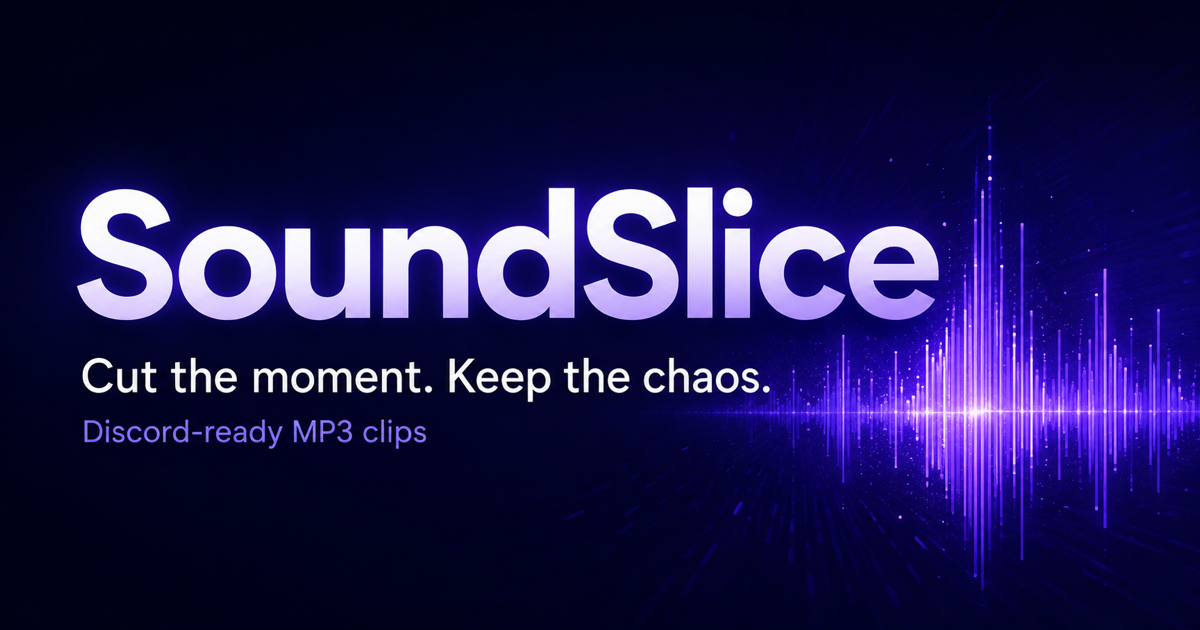
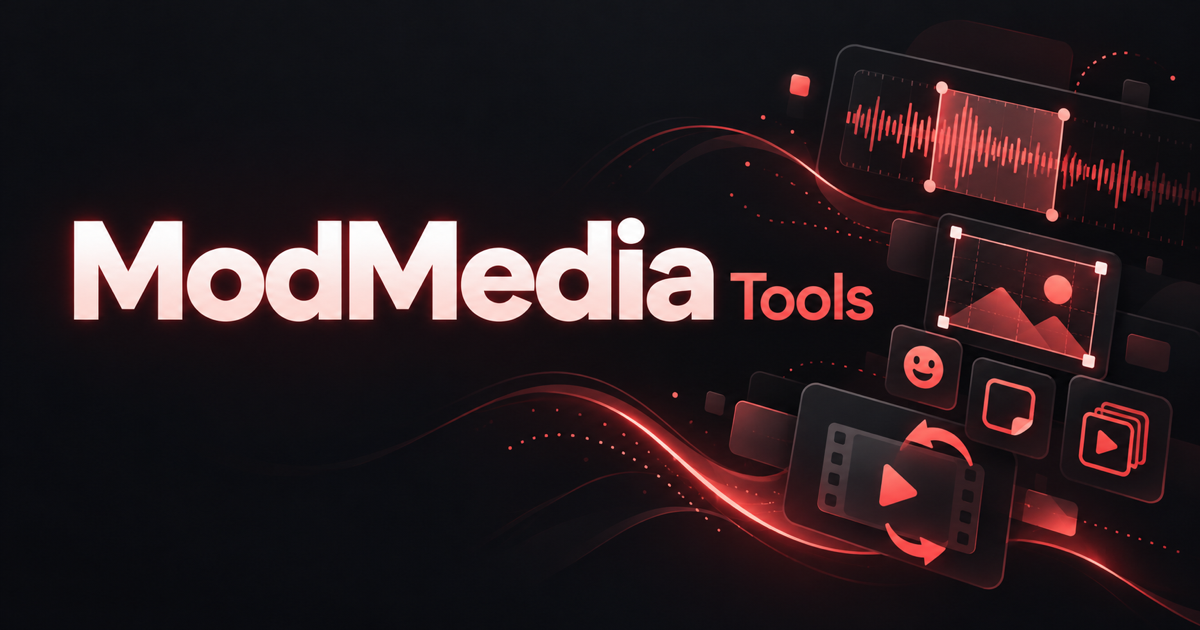
Rebrand app as ModMedia Tools
Update product branding, metadata, documentation, favicon, and social artwork. Make slider thumbs accessible to assistive technology and keyboard users.

diff --git a/app/layout.tsx b/app/layout.tsx
@@ -14,16 +14,20 @@ const geistMono = Geist_Mono({
 
 export const metadata: Metadata = {
   metadataBase: new URL(process.env.NEXT_PUBLIC_SITE_URL ?? 'https://soundslice-discord.warm-okapi-4710.chatgpt.site'),
-  title: 'SoundSlice — Discord Media Tools',
+  title: 'ModMedia Tools — Discord Media Tools',
   description: 'Format soundboard clips, stickers, and other Discord-ready media directly in your browser.',
+  icons: {
+    icon: [{ url: '/favicon.svg', type: 'image/svg+xml' }],
+    shortcut: '/favicon.svg',
+  },
   openGraph: {
-    title: 'SoundSlice — Discord Media Tools',
+    title: 'ModMedia Tools — Discord Media Tools',
     description: 'Create Discord-ready soundboard clips, stickers, and more directly in your browser.',
-    images: [{ url: '/og.png', width: 1200, height: 630, alt: 'SoundSlice audio waveform' }],
+    images: [{ url: '/og.png', width: 1200, height: 630, alt: 'ModMedia Tools media editing preview' }],
   },
   twitter: {
     card: 'summary_large_image',
-    title: 'SoundSlice — Discord Media Tools',
+    title: 'ModMedia Tools — Discord Media Tools',
     description: 'Create Discord-ready soundboard clips, stickers, and more directly in your browser.',
     images: ['/og.png'],
   },

diff --git a/components/ui/slider.tsx b/components/ui/slider.tsx
@@ -8,6 +8,8 @@ function Slider({
   value,
   min = 0,
   max = 100,
+  'aria-label': ariaLabel,
+  'aria-labelledby': ariaLabelledBy,
   ...props
 }: SliderPrimitive.Root.Props) {
   const _values = Array.isArray(value)
@@ -25,6 +27,8 @@ function Slider({
       min={min}
       max={max}
       thumbAlignment="edge"
+      aria-label={ariaLabel}
+      aria-labelledby={ariaLabelledBy}
       {...props}
     >
       <SliderPrimitive.Control className="data-vertical:min-h-40 relative flex w-full touch-none items-center select-none data-disabled:opacity-50 data-vertical:h-full data-vertical:w-auto data-vertical:flex-col">
@@ -41,6 +45,8 @@ function Slider({
           <SliderPrimitive.Thumb
             data-slot="slider-thumb"
             key={index}
+            aria-label={ariaLabel}
+            aria-labelledby={ariaLabelledBy}
             className="border-ring ring-ring/50 relative size-3 rounded-full border bg-white transition-[color,box-shadow] after:absolute after:-inset-2 hover:ring-3 focus-visible:ring-3 focus-visible:outline-hidden active:ring-3 block shrink-0 select-none disabled:pointer-events-none disabled:opacity-50"
           />
         ))}

diff --git a/app/page.tsx b/app/page.tsx
@@ -5,7 +5,7 @@ export default function Home() {
   return (
     <main className="arcade-app">
       <header className="arcade-header">
-        <a className="arcade-brand" href="/" aria-label="SoundSlice home"><span className="arcade-monogram">SS</span><span className="arcade-brand-copy">SoundSlice</span></a>
+        <a className="arcade-brand" href="/" aria-label="ModMedia Tools home"><span className="arcade-monogram">MM</span><span className="arcade-brand-copy"><span>ModMedia</span><span className="arcade-brand-suffix">Tools</span></span></a>
       </header>
       <section className="arcade-tools-page">
         <div className="arcade-upload-intro"><h1>Every tool you need for Discord-ready media, in one place.</h1><p>Fast, free tools for soundboards, stickers, emojis, icons, GIFs, and video. Trim, resize, compress, convert, and export in just a few clicks.</p></div>

diff --git a/app/sticker-formatter/page.tsx b/app/sticker-formatter/page.tsx
@@ -305,7 +305,7 @@ export default function StickerFormatter() {
   return (
     <main className="arcade-app">
       <header className="arcade-header">
-        <a className="arcade-brand" href="/" aria-label="SoundSlice home"><span className="arcade-monogram">SS</span><span className="arcade-brand-copy">SoundSlice</span></a>
+        <a className="arcade-brand" href="/" aria-label="ModMedia Tools home"><span className="arcade-monogram">MM</span><span className="arcade-brand-copy"><span>ModMedia</span><span className="arcade-brand-suffix">Tools</span></span></a>
       </header>
       {!file ? (
         <section className="arcade-upload-page sticker-upload-page">

diff --git a/app/soundboard-maker/page.tsx b/app/soundboard-maker/page.tsx
@@ -415,7 +415,7 @@ export default function Home() {
   return (
     <main className="arcade-app">
       <header className="arcade-header">
-        <a className="arcade-brand" href="/" aria-label="SoundSlice home"><span className="arcade-monogram">SS</span><span className="arcade-brand-copy">SoundSlice</span></a>
+        <a className="arcade-brand" href="/" aria-label="ModMedia Tools home"><span className="arcade-monogram">MM</span><span className="arcade-brand-copy"><span>ModMedia</span><span className="arcade-brand-suffix">Tools</span></span></a>
       </header>
       {!file ? (
         <section className="arcade-upload-page">

diff --git a/app/globals.css b/app/globals.css
@@ -166,7 +166,21 @@ body { font-family: var(--font-geist-sans), Arial, Helvetica, sans-serif; }
 .arcade-brand:hover { color: #ffb3be; }
 .arcade-brand:hover .arcade-monogram { background: #ff7c8e; }
 
-.arcade-brand-copy { display: grid; gap: .08rem; text-align: left; }
+.arcade-brand-copy {
+  display: flex;
+  align-items: baseline;
+  gap: .28rem;
+  text-align: left;
+}
+
+.arcade-brand-suffix {
+  color: #b7aebf;
+  font-size: .72em;
+  font-weight: 650;
+  letter-spacing: -.01em;
+}
+
+.arcade-brand:hover .arcade-brand-suffix { color: #ffb3be; }
 
 .arcade-monogram {
   display: grid;

diff --git a/docs/modmedia-tools.md b/docs/modmedia-tools.md
@@ -1,27 +1,27 @@
-# SoundSlice — Discord media tools
+# ModMedia Tools — Discord media tools
 
-Last updated: 2026-09-08.
-Source: Abhishek's explicit decisions and feedback during the SoundSlice design and implementation conversation, 2026-09-05 through 2026-09-08. Implementation details were verified in the local project during that work.
+Last updated: 2026-10-20.
+Source: Abhishek's explicit decisions and feedback during the ModMedia Tools design and implementation conversations, 2026-09-05 through 2026-10-20. Implementation details were verified in the local project during that work.
 
-Detailed UI specifications: [SoundSlice UI/UX design system](soundslice-design-system.md).
+Detailed UI specifications: [ModMedia Tools UI/UX design system](modmedia-tools-design-system.md).
 
 ## Product direction
 
-- SoundSlice is intended to grow into an all-in-one destination for Discord-oriented media tools used by server moderators.
+- ModMedia Tools is intended to grow into an all-in-one destination for Discord-oriented media tools used by server moderators.
 - Planned categories include soundboards, stickers, emojis, icons, GIFs, video, and other media workflows. Do not treat the current soundboard tool as the site's final scope.
-- The current product name, `SoundSlice`, and `SS` monogram are temporary enough that naming and logo work remains open. Do not rename or redesign the brand without Abhishek's approval.
+- The approved product name is `ModMedia Tools`, with an `MM` monogram and a smaller `Tools` suffix in the header wordmark. This replaces the former brand name and monogram as of 2026-10-20.
 - Avoid implying official Discord ownership or affiliation. `Discord-ready` is approved descriptive wording.
 - Homepage information architecture takes inspiration from iLovePDF: one clear, broad hero followed by clickable tool tiles that open focused workflows.
 
 ## Current locations and state
 
-- Live site: https://soundslice-discord.abhisheksharma532.chatgpt.site
+- Live site (legacy URL retained): https://soundslice-discord.abhisheksharma532.chatgpt.site
 - Primary editor route: `/soundboard-editor`.
 - Legacy `/soundboard-maker` route remains available for old bookmarks, but new links should use `/soundboard-editor`.
 - Sticker Formatter route: `/sticker-formatter`.
-- Canonical project folder: `/Users/abhishek.sharma1/Documents/SoundSlice`.
+- Canonical project folder: `/Users/abhishek.sharma1/Documents/SoundSlice` (legacy technical path retained after the rebrand).
 - Product and design documentation lives in `/Users/abhishek.sharma1/Documents/SoundSlice/docs`.
-- All future SoundSlice code, documentation, design assets, test fixtures, and durable project-specific outputs must be created or updated within this canonical folder.
+- All future ModMedia Tools code, documentation, design assets, test fixtures, and durable project-specific outputs must be created or updated within this canonical folder.
 - Do not create another working copy under a dated Codex folder. Temporary build or deployment archives may use system temporary storage, but the canonical source and durable project artifacts remain here.
 - Local Git repository uses branch `main`. No permanent GitHub/GitLab remote is configured; Sites uses a private internal source repository during publishing.
 - The site was owner-private at the last verified deployment. Abhishek intends to share it publicly/with friends later, but that intent is not authorization to change access.
@@ -38,9 +38,9 @@ Detailed UI specifications: [SoundSlice UI/UX design system](soundslice-design-s
 
 ## Shared header and navigation
 
-- Header brand contains the `SS` monogram and `SoundSlice` name.
+- Header brand contains the `MM` monogram and the `ModMedia Tools` wordmark, with `Tools` rendered smaller.
 - The brand is clickable and returns to the homepage.
-- Do not show a changing tool/category subtitle beneath `SoundSlice`; this was intentionally removed.
+- Do not show a changing tool/category subtitle beneath `ModMedia Tools`; this was intentionally removed.
 - Focused tool pages retain a subtle `All tools` back link. It is useful even though the logo also returns home because its destination is explicit.
 - If navigation grows, the back link may evolve into a compact breadcrumb such as `All tools / Soundboard Editor`.
 
@@ -58,7 +58,7 @@ Detailed UI specifications: [SoundSlice UI/UX design system](soundslice-design-s
 
 ## Sticker Formatter
 
-- The Sticker Formatter uses the shared SoundSlice header, `All tools` link, centered hero, upload card, editor shell, and compact export footer.
+- The Sticker Formatter uses the shared ModMedia Tools header, `All tools` link, centered hero, upload card, editor shell, and compact export footer.
 - Accepted source files: JPG, PNG, GIF, and APNG. Its upload copy reflects Discord’s sticker requirements: exactly 320 × 320 pixels and no larger than 512 KB.
 - Users can choose `Fill` to crop edges and fill the square, or `Fit` to keep the full image in frame; they can also zoom, drag to reposition, and reset the crop.
 - Static sources export as PNG where possible, falling back to JPG if needed to meet the 512 KB limit. Animated GIF/APNG sources export as optimized animated GIFs, preserving animation when they can fit the same limit.
@@ -163,7 +163,6 @@ Do not restore these without a new request:
 
 ## Deferred decisions
 
-- Final site name and logo remain undecided.
 - Public/shared hosting access has not been authorized yet.
 - Future tools and their exact priority remain unspecified.
 - The dedicated `All tools` back link is currently preferred; revisit only when navigation grows enough to justify breadcrumbs or a fuller header.

diff --git a/docs/modmedia-tools-design-system.md b/docs/modmedia-tools-design-system.md
@@ -1,14 +1,14 @@
-# SoundSlice UI/UX design system
+# ModMedia Tools UI/UX design system
 
-Last updated: 2026-09-08.
-Status: canonical guidance for the current SoundSlice site and future media tools. Exact implemented values were verified against `app/globals.css`; product and UX intent comes from Abhishek's explicit feedback from 2026-09-05 through 2026-09-08.
+Last updated: 2026-10-20.
+Status: canonical guidance for the current ModMedia Tools site and future media tools. Exact implemented values were verified against `app/globals.css`; product and UX intent comes from Abhishek's explicit feedback from 2026-09-05 through 2026-10-20.
 
-Related product decisions: [SoundSlice — Discord media tools](soundslice.md).
+Related product decisions: [ModMedia Tools — Discord media tools](modmedia-tools.md).
 
 ## 1. Experience principles
 
 1. **Focused, not sparse.** Keep screens visually calm while retaining the labels and short guidance needed to understand unfamiliar media operations.
-2. **Discord-oriented, not Discord-branded.** Use language and workflows familiar to server moderators without implying that SoundSlice is an official Discord product.
+2. **Discord-oriented, not Discord-branded.** Use language and workflows familiar to server moderators without implying that ModMedia Tools is an official Discord product.
 3. **One obvious primary task.** Each tool page should emphasize its working surface and primary export action rather than behave like a marketing page.
 4. **Consistent state geometry.** Uploading, loading, editing, and success states must not unexpectedly move shared page elements or change the overall layout without a functional reason.
 5. **Progressive disclosure.** Show essential controls by default. Avoid expert audio/media options unless users clearly need them.
@@ -149,8 +149,8 @@ Avoid adding margins to compensate for state-dependent layout. Shared elements s
 
 ### Header brand
 
-- `SS` monogram: `2.1rem` square, coral background, compact radius, dark text, Geist Mono.
-- Brand name: 16px, 700 weight.
+- `MM` monogram: `2.1rem` square, coral background, compact radius, dark text, Geist Mono.
+- `ModMedia` name: 16px, 700 weight. `Tools` sits on the same baseline at `0.72em`, 650 weight, in secondary text color.
 - Entire brand is one link to the homepage with a pointer cursor and visible focus state.
 - No per-tool subtitle beneath the brand name.
 
@@ -320,7 +320,7 @@ Do not animate layout position on hover. Transition colors, borders, opacity, an
 
 Future sticker, emoji, icon, GIF, or video tools should reuse this page structure where it fits:
 
-1. Shared SoundSlice header with no changing subtitle.
+1. Shared ModMedia Tools header with no changing subtitle.
 2. Explicit `All tools` navigation.
 3. Centered tool name and one-sentence outcome description.
 4. Stable upload state using the primary card style.
@@ -332,7 +332,7 @@ Do not force waveform, time, volume, or five-second constraints onto tools that 
 
 ## 14. Design QA checklist
 
-Before publishing a new or changed SoundSlice workflow, verify:
+Before publishing a new or changed ModMedia Tools workflow, verify:
 
 - Uses only approved palette roles; no accidental yellow/neon/unrelated accents.
 - Shared header, page width, hero alignment, and spacing match existing tools.

diff --git a/README.md b/README.md
@@ -1,17 +1,17 @@
-# SoundSlice
+# ModMedia Tools
 
-SoundSlice is a growing collection of Discord-oriented media tools for server moderators. The current product includes a client-side Soundboard Editor and Sticker Formatter for producing Discord-ready media files.
+ModMedia Tools is a growing collection of Discord-oriented media tools for server moderators. The current product includes a client-side Soundboard Editor and Sticker Formatter for producing Discord-ready media files.
 
 ## Canonical workspace
 
-All SoundSlice development must be performed and saved in `/Users/abhishek.sharma1/Documents/SoundSlice`.
+All ModMedia Tools development must be performed and saved in the legacy project folder `/Users/abhishek.sharma1/Documents/SoundSlice`.
 
 Keep source code, documentation, design assets, test fixtures, and durable project-specific outputs in this folder. Do not recreate or use the former dated Codex project folder as a working copy. Temporary build or deployment archives may use system temporary storage, but they are not the project source of truth.
 
 ## Project references
 
-- [Product context and decisions](docs/soundslice.md)
-- [UI/UX design system](docs/soundslice-design-system.md)
+- [Product context and decisions](docs/modmedia-tools.md)
+- [UI/UX design system](docs/modmedia-tools-design-system.md)
 
 ## Application
 
@@ -36,4 +36,4 @@ pnpm lint
 pnpm build
 ```
 
-Live site: https://soundslice-discord.abhisheksharma532.chatgpt.site
+Live site (legacy URL): https://soundslice-discord.abhisheksharma532.chatgpt.site
